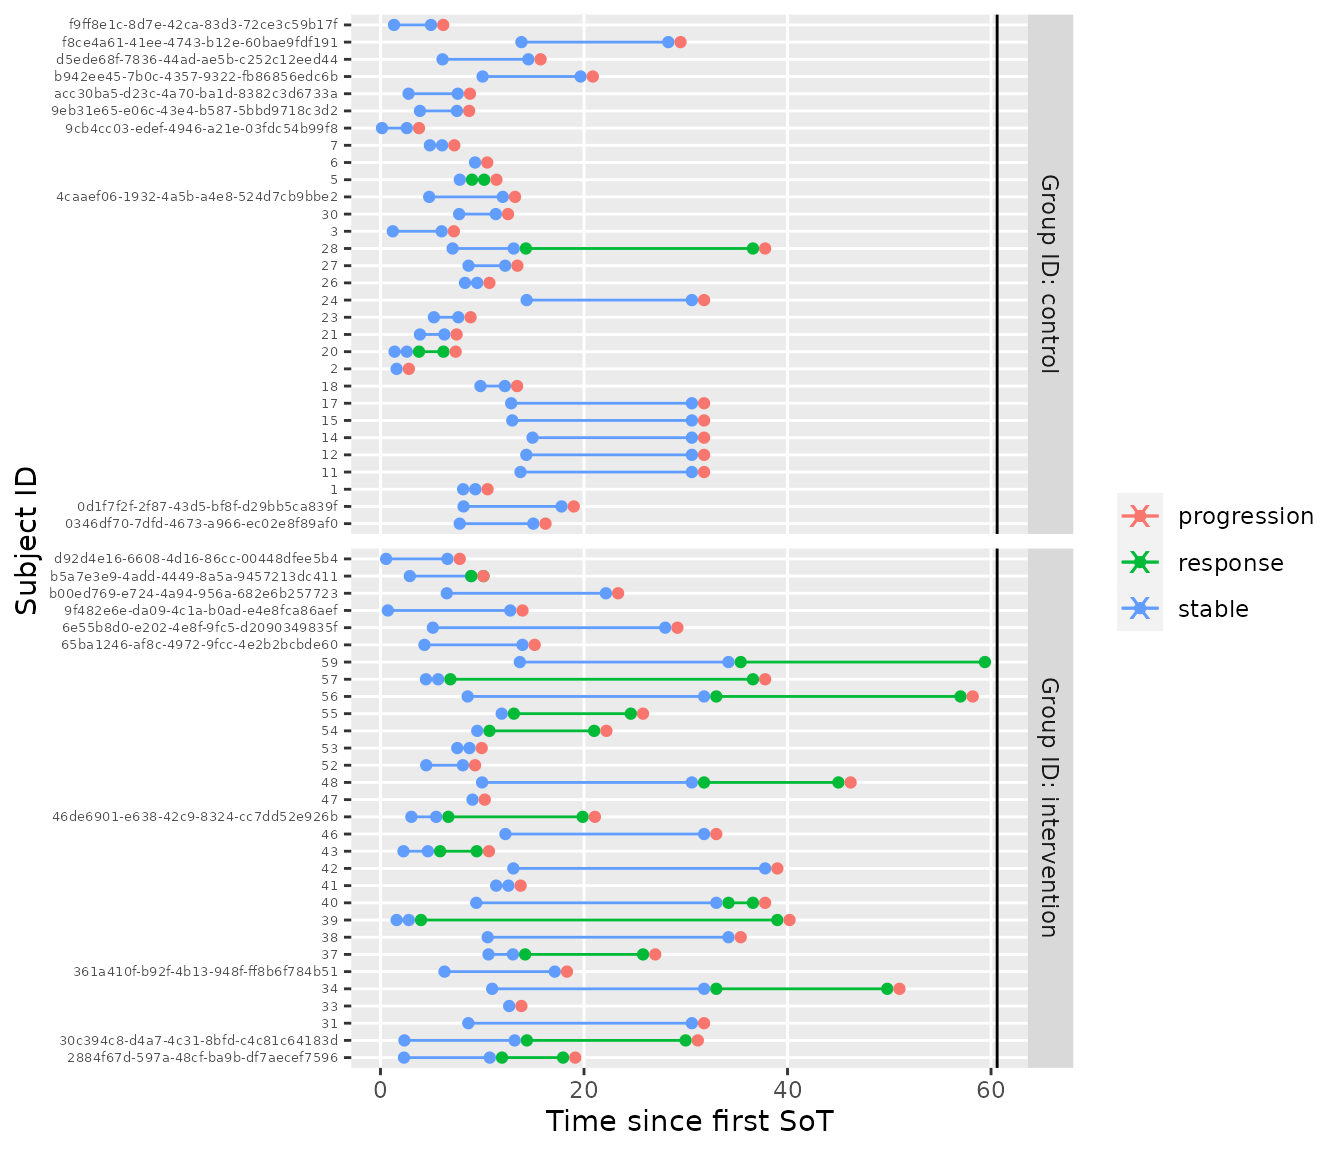
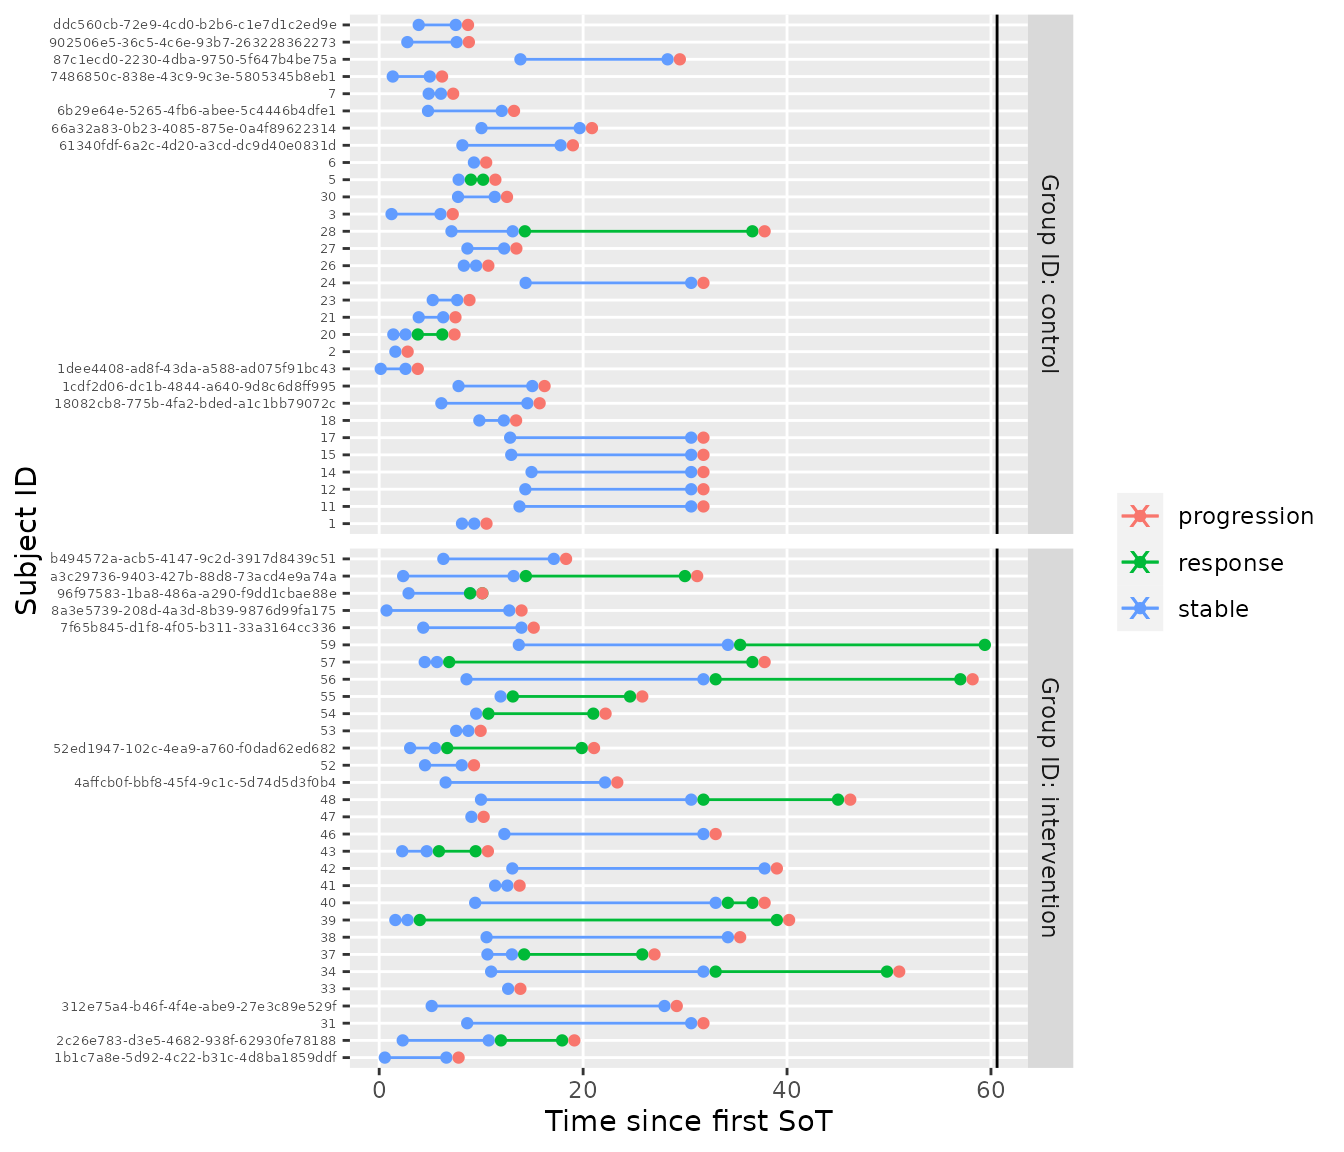
Deploying to gh-pages from @ Boehringer-Ingelheim/oncomsm@a7aff30cdea569ed6e187f107cad72ba032b1000 🚀

diff --git a/articles/multi-state-model-for-early-oncology.html b/articles/multi-state-model-for-early-oncology.html
@@ -90,10 +90,10 @@
 <p><strong>tl;dr:</strong> <em>Tumor response data is often treated as binary endpoint in early oncology trials (objective response or progression free survival at x months). This ignores the fact that these are time-to-event endpoints. Instead, the multi-state characteristics of the data can be exploited to reduce bias at interim analyses and drive event prediction for probability of success calculations.</em></p>
 <p>In early oncology trials, (objective tumor) response based on the RECIST criteria is often used as primary endpoint to establish the activity of a treatment. Response is often treated as binary variable although it is a delayed event endpoint. At the final analysis, this simplification is of little concern since all individuals tend to be followed up long enough to justify the assumption that non-responders are unlikely to still become responders. This approach is often plausible since individuals with tumors not responding to treatment ultimately progress. However, when continuously monitoring such a trial, the assumption of sufficient follow-up is no longer fulfilled and a simple binary analysis may be biased.</p>
 <p>In this vignette, the problem is addressed by extending the statistic binary response model to a three-state model for “stable”, “response”, and “progression or death”. The respective transition numbers are given in the graph below.</p>
-<div id="htmlwidget-1fd642e993e0b9d848d7" style="width:672px;height:200px;" class="DiagrammeR html-widget"></div>
-<script type="application/json" data-for="htmlwidget-1fd642e993e0b9d848d7">{"x":{"diagram":"\ngraph LR\n  stable -- 1 --> response\n  response -- 3 --> progression[progression or death]\n  stable -- 2 --> progression[progression or death]\n"},"evals":[],"jsHooks":[]}</script><p>Once someone becomes a responder, this model only allows a transition to the combined progression or death state. This means that progression and death are not modeled as competing events and simplifies analysis greatly over a model like the one below:</p>
-<div id="htmlwidget-15e9ab6027080f1fc7b6" style="width:672px;height:200px;" class="DiagrammeR html-widget"></div>
-<script type="application/json" data-for="htmlwidget-15e9ab6027080f1fc7b6">{"x":{"diagram":"\ngraph LR\n  stable -- 1 --> response\n  response -- 3a --> progression\n  response -- 3b --> death\n  progression -- 4 --> death\n  stable -- 2a --> progression\n  stable -- 2b --> death\n"},"evals":[],"jsHooks":[]}</script><p>Coming back to the simpler model, there is still a competing event issue when starting from ‘stable’. Often, the convenient hazard-based approach is used to model multi-state situations like this. The hazard-based approach is intuitive, especially when considering non-parametric estimation, and co variate inclusion is well-understood. However, a hazard-based approach has several disadvantages:</p>
+<div id="htmlwidget-9035f122425c88c380da" style="width:672px;height:200px;" class="DiagrammeR html-widget"></div>
+<script type="application/json" data-for="htmlwidget-9035f122425c88c380da">{"x":{"diagram":"\ngraph LR\n  stable -- 1 --> response\n  response -- 3 --> progression[progression or death]\n  stable -- 2 --> progression[progression or death]\n"},"evals":[],"jsHooks":[]}</script><p>Once someone becomes a responder, this model only allows a transition to the combined progression or death state. This means that progression and death are not modeled as competing events and simplifies analysis greatly over a model like the one below:</p>
+<div id="htmlwidget-dbb9c88664c32d1d8eb6" style="width:672px;height:200px;" class="DiagrammeR html-widget"></div>
+<script type="application/json" data-for="htmlwidget-dbb9c88664c32d1d8eb6">{"x":{"diagram":"\ngraph LR\n  stable -- 1 --> response\n  response -- 3a --> progression\n  response -- 3b --> death\n  progression -- 4 --> death\n  stable -- 2a --> progression\n  stable -- 2b --> death\n"},"evals":[],"jsHooks":[]}</script><p>Coming back to the simpler model, there is still a competing event issue when starting from ‘stable’. Often, the convenient hazard-based approach is used to model multi-state situations like this. The hazard-based approach is intuitive, especially when considering non-parametric estimation, and co variate inclusion is well-understood. However, a hazard-based approach has several disadvantages:</p>
 <ol style="list-style-type: decimal">
 <li><p>The hazard scale is difficult to interpret since it is a momentary risk, not a probability. This leads to problems with prior specification in a Bayesian setting. The Bayesian approach is, however, particularly useful in the early development process since it allows to augment data with prior opinion or evidence and thus improve accuracy.</p></li>
 <li><p>A hazard based, non-Markov multi-state model leads to intractable expressions for the implicitly given transition probabilities. Hence they need to be calculated by simulation which makes the model less convenient to work with if transition probabilities a or of primary interest. Since the (objective) response rate often plays an important role in the analysis of early oncology trials, this is a disadvantage.</p></li>
@@ -320,8 +320,8 @@ R &amp;\sim \operatorname{Bernoulli}(p) \\
 <span><span class="co">#&gt; </span></span>
 <span><span class="co">#&gt; SAMPLING FOR MODEL 'srp_model' NOW (CHAIN 1).</span></span>
 <span><span class="co">#&gt; Chain 1: </span></span>
-<span><span class="co">#&gt; Chain 1: Gradient evaluation took 7e-05 seconds</span></span>
-<span><span class="co">#&gt; Chain 1: 1000 transitions using 10 leapfrog steps per transition would take 0.7 seconds.</span></span>
+<span><span class="co">#&gt; Chain 1: Gradient evaluation took 0.000113 seconds</span></span>
+<span><span class="co">#&gt; Chain 1: 1000 transitions using 10 leapfrog steps per transition would take 1.13 seconds.</span></span>
 <span><span class="co">#&gt; Chain 1: Adjust your expectations accordingly!</span></span>
 <span><span class="co">#&gt; Chain 1: </span></span>
 <span><span class="co">#&gt; Chain 1: </span></span>
@@ -338,9 +338,9 @@ R &amp;\sim \operatorname{Bernoulli}(p) \\
 <span><span class="co">#&gt; Chain 1: Iteration: 4750 / 5250 [ 90%]  (Sampling)</span></span>
 <span><span class="co">#&gt; Chain 1: Iteration: 5250 / 5250 [100%]  (Sampling)</span></span>
 <span><span class="co">#&gt; Chain 1: </span></span>
-<span><span class="co">#&gt; Chain 1:  Elapsed Time: 0.665952 seconds (Warm-up)</span></span>
-<span><span class="co">#&gt; Chain 1:                7.29253 seconds (Sampling)</span></span>
-<span><span class="co">#&gt; Chain 1:                7.95848 seconds (Total)</span></span>
+<span><span class="co">#&gt; Chain 1:  Elapsed Time: 1.11378 seconds (Warm-up)</span></span>
+<span><span class="co">#&gt; Chain 1:                11.8792 seconds (Sampling)</span></span>
+<span><span class="co">#&gt; Chain 1:                12.993 seconds (Total)</span></span>
 <span><span class="co">#&gt; Chain 1:</span></span>
 <span></span>
 <span><span class="fu"><a href="https://rdrr.io/r/graphics/plot.default.html" class="external-link">plot</a></span><span class="op">(</span><span class="va">mdl</span>, dt <span class="op">=</span> <span class="fu"><a href="https://rdrr.io/r/base/c.html" class="external-link">c</a></span><span class="op">(</span><span class="fl">0</span>, <span class="fl">36</span><span class="op">)</span>, sample <span class="op">=</span> <span class="va">smpl_posterior</span><span class="op">)</span></span></code></pre></div>
@@ -408,26 +408,26 @@ R &amp;\sim \operatorname{Bernoulli}(p) \\
 <span><span class="co">#&gt; <span style="color: #949494;"># A tibble: 20 × 7</span></span></span>
 <span><span class="co">#&gt;    group_id     subject_id                        t_sot from  to     t_min t_max</span></span>
 <span><span class="co">#&gt;    <span style="color: #949494; font-style: italic;">&lt;chr&gt;</span>        <span style="color: #949494; font-style: italic;">&lt;chr&gt;</span>                             <span style="color: #949494; font-style: italic;">&lt;dbl&gt;</span> <span style="color: #949494; font-style: italic;">&lt;chr&gt;</span> <span style="color: #949494; font-style: italic;">&lt;chr&gt;</span>  <span style="color: #949494; font-style: italic;">&lt;dbl&gt;</span> <span style="color: #949494; font-style: italic;">&lt;dbl&gt;</span></span></span>
-<span><span class="co">#&gt; <span style="color: #BCBCBC;"> 1</span> control      9cb4cc03-edef-4946-a21e-03fdc54…  0.151 stab… <span style="color: #BB0000;">NA</span>     0.184   <span style="color: #BB0000;">Inf</span></span></span>
-<span><span class="co">#&gt; <span style="color: #BCBCBC;"> 2</span> control      f9ff8e1c-8d7e-42ca-83d3-72ce3c5…  1.33  stab… <span style="color: #BB0000;">NA</span>     1.36    <span style="color: #BB0000;">Inf</span></span></span>
-<span><span class="co">#&gt; <span style="color: #BCBCBC;"> 3</span> control      acc30ba5-d23c-4a70-ba1d-8382c3d…  2.76  stab… <span style="color: #BB0000;">NA</span>     2.79    <span style="color: #BB0000;">Inf</span></span></span>
-<span><span class="co">#&gt; <span style="color: #BCBCBC;"> 4</span> control      9eb31e65-e06c-43e4-b587-5bbd971…  3.88  stab… <span style="color: #BB0000;">NA</span>     3.91    <span style="color: #BB0000;">Inf</span></span></span>
-<span><span class="co">#&gt; <span style="color: #BCBCBC;"> 5</span> control      4caaef06-1932-4a5b-a4e8-524d7cb…  4.79  stab… <span style="color: #BB0000;">NA</span>     4.82    <span style="color: #BB0000;">Inf</span></span></span>
-<span><span class="co">#&gt; <span style="color: #BCBCBC;"> 6</span> control      d5ede68f-7836-44ad-ae5b-c252c12…  6.10  stab… <span style="color: #BB0000;">NA</span>     6.13    <span style="color: #BB0000;">Inf</span></span></span>
-<span><span class="co">#&gt; <span style="color: #BCBCBC;"> 7</span> control      0346df70-7dfd-4673-a966-ec02e8f…  7.78  stab… <span style="color: #BB0000;">NA</span>     7.82    <span style="color: #BB0000;">Inf</span></span></span>
-<span><span class="co">#&gt; <span style="color: #BCBCBC;"> 8</span> control      0d1f7f2f-2f87-43d5-bf8f-d29bb5c…  8.16  stab… <span style="color: #BB0000;">NA</span>     8.20    <span style="color: #BB0000;">Inf</span></span></span>
-<span><span class="co">#&gt; <span style="color: #BCBCBC;"> 9</span> control      b942ee45-7b0c-4357-9322-fb86856… 10.0   stab… <span style="color: #BB0000;">NA</span>    10.1     <span style="color: #BB0000;">Inf</span></span></span>
-<span><span class="co">#&gt; <span style="color: #BCBCBC;">10</span> control      f8ce4a61-41ee-4743-b12e-60bae9f… 13.9   stab… <span style="color: #BB0000;">NA</span>    13.9     <span style="color: #BB0000;">Inf</span></span></span>
-<span><span class="co">#&gt; <span style="color: #BCBCBC;">11</span> intervention d92d4e16-6608-4d16-86cc-00448df…  0.554 stab… <span style="color: #BB0000;">NA</span>     0.587   <span style="color: #BB0000;">Inf</span></span></span>
-<span><span class="co">#&gt; <span style="color: #BCBCBC;">12</span> intervention 9f482e6e-da09-4c1a-b0ad-e4e8fca…  0.724 stab… <span style="color: #BB0000;">NA</span>     0.758   <span style="color: #BB0000;">Inf</span></span></span>
-<span><span class="co">#&gt; <span style="color: #BCBCBC;">13</span> intervention 2884f67d-597a-48cf-ba9b-df7aece…  2.31  stab… <span style="color: #BB0000;">NA</span>     2.34    <span style="color: #BB0000;">Inf</span></span></span>
-<span><span class="co">#&gt; <span style="color: #BCBCBC;">14</span> intervention 30c394c8-d4a7-4c31-8bfd-c4c81c6…  2.35  stab… <span style="color: #BB0000;">NA</span>     2.38    <span style="color: #BB0000;">Inf</span></span></span>
-<span><span class="co">#&gt; <span style="color: #BCBCBC;">15</span> intervention b5a7e3e9-4add-4449-8a5a-9457213…  2.88  stab… <span style="color: #BB0000;">NA</span>     2.92    <span style="color: #BB0000;">Inf</span></span></span>
-<span><span class="co">#&gt; <span style="color: #BCBCBC;">16</span> intervention 46de6901-e638-42c9-8324-cc7dd52…  3.04  stab… <span style="color: #BB0000;">NA</span>     3.07    <span style="color: #BB0000;">Inf</span></span></span>
-<span><span class="co">#&gt; <span style="color: #BCBCBC;">17</span> intervention 65ba1246-af8c-4972-9fcc-4e2b2bc…  4.32  stab… <span style="color: #BB0000;">NA</span>     4.35    <span style="color: #BB0000;">Inf</span></span></span>
-<span><span class="co">#&gt; <span style="color: #BCBCBC;">18</span> intervention 6e55b8d0-e202-4e8f-9fc5-d209034…  5.15  stab… <span style="color: #BB0000;">NA</span>     5.18    <span style="color: #BB0000;">Inf</span></span></span>
-<span><span class="co">#&gt; <span style="color: #BCBCBC;">19</span> intervention 361a410f-b92f-4b13-948f-ff8b6f7…  6.29  stab… <span style="color: #BB0000;">NA</span>     6.33    <span style="color: #BB0000;">Inf</span></span></span>
-<span><span class="co">#&gt; <span style="color: #BCBCBC;">20</span> intervention b00ed769-e724-4a94-956a-682e6b2…  6.52  stab… <span style="color: #BB0000;">NA</span>     6.55    <span style="color: #BB0000;">Inf</span></span></span></code></pre></div>
+<span><span class="co">#&gt; <span style="color: #BCBCBC;"> 1</span> control      1dee4408-ad8f-43da-a588-ad075f9…  0.151 stab… <span style="color: #BB0000;">NA</span>     0.184   <span style="color: #BB0000;">Inf</span></span></span>
+<span><span class="co">#&gt; <span style="color: #BCBCBC;"> 2</span> control      7486850c-838e-43c9-9c3e-5805345…  1.33  stab… <span style="color: #BB0000;">NA</span>     1.36    <span style="color: #BB0000;">Inf</span></span></span>
+<span><span class="co">#&gt; <span style="color: #BCBCBC;"> 3</span> control      902506e5-36c5-4c6e-93b7-2632283…  2.76  stab… <span style="color: #BB0000;">NA</span>     2.79    <span style="color: #BB0000;">Inf</span></span></span>
+<span><span class="co">#&gt; <span style="color: #BCBCBC;"> 4</span> control      ddc560cb-72e9-4cd0-b2b6-c1e7d1c…  3.88  stab… <span style="color: #BB0000;">NA</span>     3.91    <span style="color: #BB0000;">Inf</span></span></span>
+<span><span class="co">#&gt; <span style="color: #BCBCBC;"> 5</span> control      6b29e64e-5265-4fb6-abee-5c4446b…  4.79  stab… <span style="color: #BB0000;">NA</span>     4.82    <span style="color: #BB0000;">Inf</span></span></span>
+<span><span class="co">#&gt; <span style="color: #BCBCBC;"> 6</span> control      18082cb8-775b-4fa2-bded-a1c1bb7…  6.10  stab… <span style="color: #BB0000;">NA</span>     6.13    <span style="color: #BB0000;">Inf</span></span></span>
+<span><span class="co">#&gt; <span style="color: #BCBCBC;"> 7</span> control      1cdf2d06-dc1b-4844-a640-9d8c6d8…  7.78  stab… <span style="color: #BB0000;">NA</span>     7.82    <span style="color: #BB0000;">Inf</span></span></span>
+<span><span class="co">#&gt; <span style="color: #BCBCBC;"> 8</span> control      61340fdf-6a2c-4d20-a3cd-dc9d40e…  8.16  stab… <span style="color: #BB0000;">NA</span>     8.20    <span style="color: #BB0000;">Inf</span></span></span>
+<span><span class="co">#&gt; <span style="color: #BCBCBC;"> 9</span> control      66a32a83-0b23-4085-875e-0a4f896… 10.0   stab… <span style="color: #BB0000;">NA</span>    10.1     <span style="color: #BB0000;">Inf</span></span></span>
+<span><span class="co">#&gt; <span style="color: #BCBCBC;">10</span> control      87c1ecd0-2230-4dba-9750-5f647b4… 13.9   stab… <span style="color: #BB0000;">NA</span>    13.9     <span style="color: #BB0000;">Inf</span></span></span>
+<span><span class="co">#&gt; <span style="color: #BCBCBC;">11</span> intervention 1b1c7a8e-5d92-4c22-b31c-4d8ba18…  0.554 stab… <span style="color: #BB0000;">NA</span>     0.587   <span style="color: #BB0000;">Inf</span></span></span>
+<span><span class="co">#&gt; <span style="color: #BCBCBC;">12</span> intervention 8a3e5739-208d-4a3d-8b39-9876d99…  0.724 stab… <span style="color: #BB0000;">NA</span>     0.758   <span style="color: #BB0000;">Inf</span></span></span>
+<span><span class="co">#&gt; <span style="color: #BCBCBC;">13</span> intervention 2c26e783-d3e5-4682-938f-62930fe…  2.31  stab… <span style="color: #BB0000;">NA</span>     2.34    <span style="color: #BB0000;">Inf</span></span></span>
+<span><span class="co">#&gt; <span style="color: #BCBCBC;">14</span> intervention a3c29736-9403-427b-88d8-73acd4e…  2.35  stab… <span style="color: #BB0000;">NA</span>     2.38    <span style="color: #BB0000;">Inf</span></span></span>
+<span><span class="co">#&gt; <span style="color: #BCBCBC;">15</span> intervention 96f97583-1ba8-486a-a290-f9dd1cb…  2.88  stab… <span style="color: #BB0000;">NA</span>     2.92    <span style="color: #BB0000;">Inf</span></span></span>
+<span><span class="co">#&gt; <span style="color: #BCBCBC;">16</span> intervention 52ed1947-102c-4ea9-a760-f0dad62…  3.04  stab… <span style="color: #BB0000;">NA</span>     3.07    <span style="color: #BB0000;">Inf</span></span></span>
+<span><span class="co">#&gt; <span style="color: #BCBCBC;">17</span> intervention 7f65b845-d1f8-4f05-b311-33a3164…  4.32  stab… <span style="color: #BB0000;">NA</span>     4.35    <span style="color: #BB0000;">Inf</span></span></span>
+<span><span class="co">#&gt; <span style="color: #BCBCBC;">18</span> intervention 312e75a4-b46f-4f4e-abe9-27e3c89…  5.15  stab… <span style="color: #BB0000;">NA</span>     5.18    <span style="color: #BB0000;">Inf</span></span></span>
+<span><span class="co">#&gt; <span style="color: #BCBCBC;">19</span> intervention b494572a-acb5-4147-9c2d-3917d84…  6.29  stab… <span style="color: #BB0000;">NA</span>     6.33    <span style="color: #BB0000;">Inf</span></span></span>
+<span><span class="co">#&gt; <span style="color: #BCBCBC;">20</span> intervention 4affcb0f-bbf8-45f4-9c1c-5d74d5d…  6.52  stab… <span style="color: #BB0000;">NA</span>     6.55    <span style="color: #BB0000;">Inf</span></span></span></code></pre></div>
 <p>The hypothetical future first-visits can now be combined with the interim data and the trajectories can be sampled forward using the already fitted posterior distribution.</p>
 <div class="sourceCode" id="cb14"><pre class="downlit sourceCode r">
 <code class="sourceCode R"><span><span class="va">tbl_mstate_interim_forward</span> <span class="op">&lt;-</span> <span class="fu"><a href="https://dplyr.tidyverse.org/reference/bind.html" class="external-link">bind_rows</a></span><span class="op">(</span><span class="va">tbl_mstate_interim</span>, <span class="va">tbl_to_be_recruited</span><span class="op">)</span></span>
